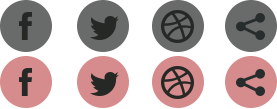
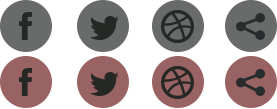
footer improved

diff --git a/css/style.css b/css/style.css
@@ -284,7 +284,7 @@ body{
 }
 
 .footer-links a:hover {
-	color: #aeaeae;
+	color: #9a6363;
 }
 
 
@@ -293,58 +293,55 @@ body{
 	float: right;
 	color: #8b8b8b;
 	margin-top: 30px;
+	position: relative;
+	right: 5px;
+	
+}
+
+.icons {
+	position: absolute;
+	top: 0;
+}
+
+.icons-bg {
+	width: 52px;
+	height: 52px;
+}
+
+.icons img {
+	margin-right: 10px;
 }
 
 #icons1 {
-	width: 52px;
-	height: 52px;
 	background: url('../img/footer-icons.png') 0 0;
-	margin-right: 10px;
 }
 
 #icons1:hover {
-	width: 52px;
-	height: 52px;
-	background: url('../img/footer-icons.png') 0 0;
+	background: url('../img/footer-icons.png') 0 -56px;
 }
 
 #icons2 {
-	width: 52px;
-	height: 52px;
-	background: url('../img/footer-icons.png') 0 0;
-	margin-right: 10px;
+	background: url('../img/footer-icons.png') -77px 0;
 }
 
 #icons2:hover {
-	width: 52px;
-	height: 52px;
-	background: url('../img/footer-icons.png') 0 0;
+	background: url('../img/footer-icons.png') -77px -56px;
 }
 
 #icons3 {
-	width: 52px;
-	height: 52px;
-	background: url('../img/footer-icons.png') 0 0;
-	margin-right: 10px;
+	background: url('../img/footer-icons.png') -152px 0;
 }
 
 #icons3:hover {
-	width: 52px;
-	height: 52px;
-	background: url('../img/footer-icons.png') 0 0;
+	background: url('../img/footer-icons.png') -152px -56px;
 }
 
 #icons4 {
-	width: 52px;
-	height: 52px;
-	background: url('../img/footer-icons.png') 0 0;
-	margin-right: 10px;
+	background: url('../img/footer-icons.png') -225px 0;
 }
 
 #icons4:hover {
-	width: 52px;
-	height: 52px;
-	background: url('../img/footer-icons.png') 0 0;
+	background: url('../img/footer-icons.png') -225px -56px;
 }
 
 .icons-and-copyright a {
@@ -359,6 +356,7 @@ body{
 
 .copyright {
 	clear: both;
-	margin-top: 10px;
+	margin-top: 80px;
+	font-size: 15.5px;
 
 }

diff --git a/index.html b/index.html
@@ -215,10 +215,13 @@
 
 			<div class="icons-and-copyright">
 
-				<img id="icons1" src="img/img_trans.png">
-				<img id="icons2" src="img/img_trans.png">
-				<img id="icons3" src="img/img_trans.png">
-				<img id="icons4" src="img/img_trans.png">
+				<div class="icons">
+					<a id="ftr-icn1" href="#"><img class="icons-bg" id="icons1" src="img/img_trans.png"></a>
+					<a id="ftr-icn2" href="#"><img class="icons-bg" id="icons2" src="img/img_trans.png"></a>
+					<a id="ftr-icn3" href="#"><img class="icons-bg" id="icons3" src="img/img_trans.png"></a>
+					<a id="ftr-icn4" href="#"><img class="icons-bg" id="icons4" src="img/img_trans.png"></a>
+				</div>
+
 
 
 
